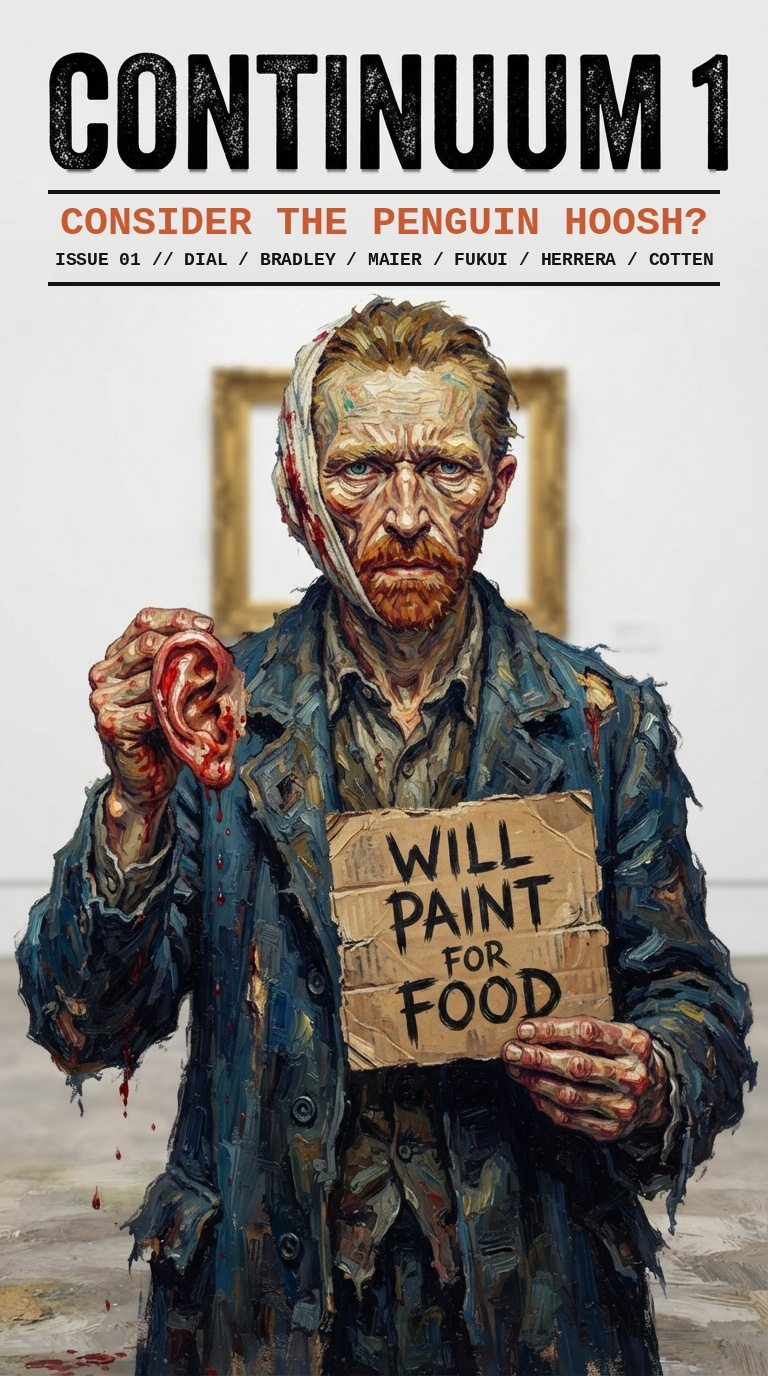
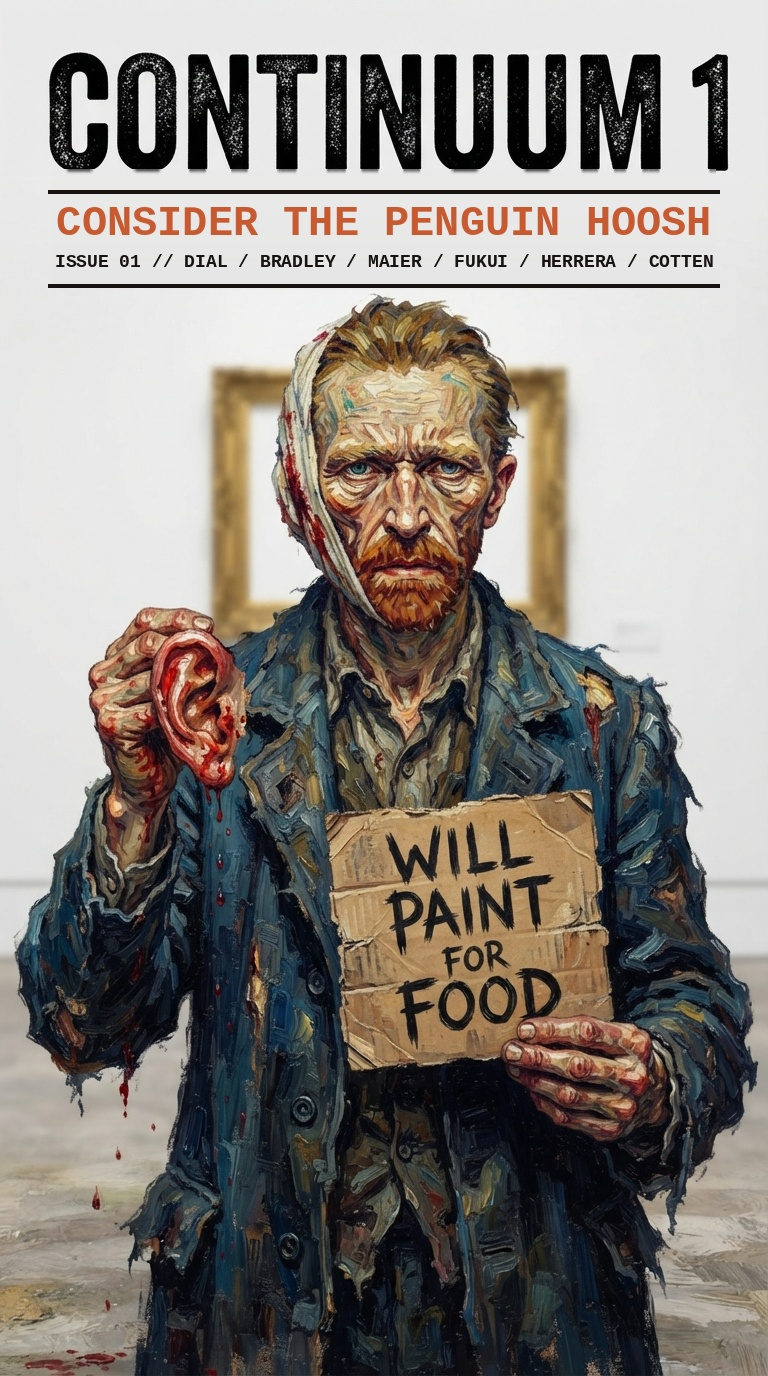
copy: drop the question mark from 'Consider the Penguin Hoosh' (cover art, tagline, metadata)
Claude-Session: https://claude.ai/code/session_01CQuuGZgFwfcGgZ7TXHpujQ

Changed region(s): [[0.0625, 0.125, 0.9375, 0.2188]]

diff --git a/index.html b/index.html
@@ -3,20 +3,20 @@
 <head>
     <meta charset="UTF-8">
     <meta name="viewport" content="width=device-width, initial-scale=1.0">
-    <title>Continuum 1: Consider the Penguin Hoosh? | A free, ad-free magazine</title>
-    <meta name="description" content="Continuum is a free, ad-free magazine and print-on-demand zine about creators the market ignored while they were alive: Thornton Dial, Charles Bradley, Vivian Maier, Ryo Fukui, Carmen Herrera, Elizabeth Cotten and Anthony Bourdain before the fame. Issue 01: Consider the Penguin Hoosh?">
+    <title>Continuum 1: Consider the Penguin Hoosh | A free, ad-free magazine</title>
+    <meta name="description" content="Continuum is a free, ad-free magazine and print-on-demand zine about creators the market ignored while they were alive: Thornton Dial, Charles Bradley, Vivian Maier, Ryo Fukui, Carmen Herrera, Elizabeth Cotten and Anthony Bourdain before the fame. Issue 01: Consider the Penguin Hoosh">
     <link rel="canonical" href="https://terratian.github.io/continuum-zine/">
     <meta name="robots" content="index, follow">
     <meta name="theme-color" content="#161311">
     <meta property="og:type" content="website">
     <meta property="og:site_name" content="Continuum">
-    <meta property="og:title" content="Continuum 1: Consider the Penguin Hoosh?">
+    <meta property="og:title" content="Continuum 1: Consider the Penguin Hoosh">
     <meta property="og:description" content="A free, ad-free magazine about creators the market ignored while they were alive. Why do we wait for artists to die before we fund them?">
     <meta property="og:url" content="https://terratian.github.io/continuum-zine/">
     <meta property="og:image" content="https://terratian.github.io/continuum-zine/volumes/issue-01/media/cover.jpg">
     <meta name="twitter:card" content="summary_large_image">
     <script type="application/ld+json">
-    {"@context":"https://schema.org","@type":"PublicationIssue","name":"Continuum 1: Consider the Penguin Hoosh?","issueNumber":"1","isAccessibleForFree":true,"license":"https://creativecommons.org/licenses/by/4.0/","url":"https://terratian.github.io/continuum-zine/","image":"https://terratian.github.io/continuum-zine/volumes/issue-01/media/cover.jpg","inLanguage":"en","isPartOf":{"@type":"Periodical","name":"Continuum","url":"https://terratian.github.io/continuum-zine/"},"editor":{"@type":"Person","name":"de' negro riot dog maniplacas 33"},"illustrator":{"@type":"Person","name":"de' negro riot dog maniplacas 33"},"about":["Thornton Dial","Charles Bradley","Vivian Maier","Ryo Fukui","Carmen Herrera","Elizabeth Cotten","Anthony Bourdain"]}
+    {"@context":"https://schema.org","@type":"PublicationIssue","name":"Continuum 1: Consider the Penguin Hoosh","issueNumber":"1","isAccessibleForFree":true,"license":"https://creativecommons.org/licenses/by/4.0/","url":"https://terratian.github.io/continuum-zine/","image":"https://terratian.github.io/continuum-zine/volumes/issue-01/media/cover.jpg","inLanguage":"en","isPartOf":{"@type":"Periodical","name":"Continuum","url":"https://terratian.github.io/continuum-zine/"},"editor":{"@type":"Person","name":"de' negro riot dog maniplacas 33"},"illustrator":{"@type":"Person","name":"de' negro riot dog maniplacas 33"},"about":["Thornton Dial","Charles Bradley","Vivian Maier","Ryo Fukui","Carmen Herrera","Elizabeth Cotten","Anthony Bourdain"]}
     </script>
     <script src="https://cdn.tailwindcss.com"></script>
     <script>
@@ -80,7 +80,7 @@
                 CONTINUUM
             </h1>
             <p class="text-[10px] font-mono uppercase tracking-widest text-rust-orange mt-2">
-                [CONSIDER THE PENGUIN HOOSH?]
+                [CONSIDER THE PENGUIN HOOSH]
             </p>
         </header>
 
@@ -132,7 +132,7 @@
 
     <main class="w-screen h-screen overflow-y-auto flex flex-col bg-umber-base scroll-smooth pb-28">
         <article id="cover" class="border-b-[3px] border-black flex items-center justify-center h-screen min-h-screen bg-black">
-            <h1 class="sr-only">Continuum 1: Consider the Penguin Hoosh? A free, ad-free magazine about creators the market ignored while they were alive</h1>
+            <h1 class="sr-only">Continuum 1: Consider the Penguin Hoosh A free, ad-free magazine about creators the market ignored while they were alive</h1>
             <img src="volumes/issue-01/media/cover.jpg" alt="Continuum 1 cover: a painted figure with a bandaged head holds an ear and a cardboard sign reading WILL PAINT FOR FOOD" class="h-full w-full object-contain">
         </article>
 
